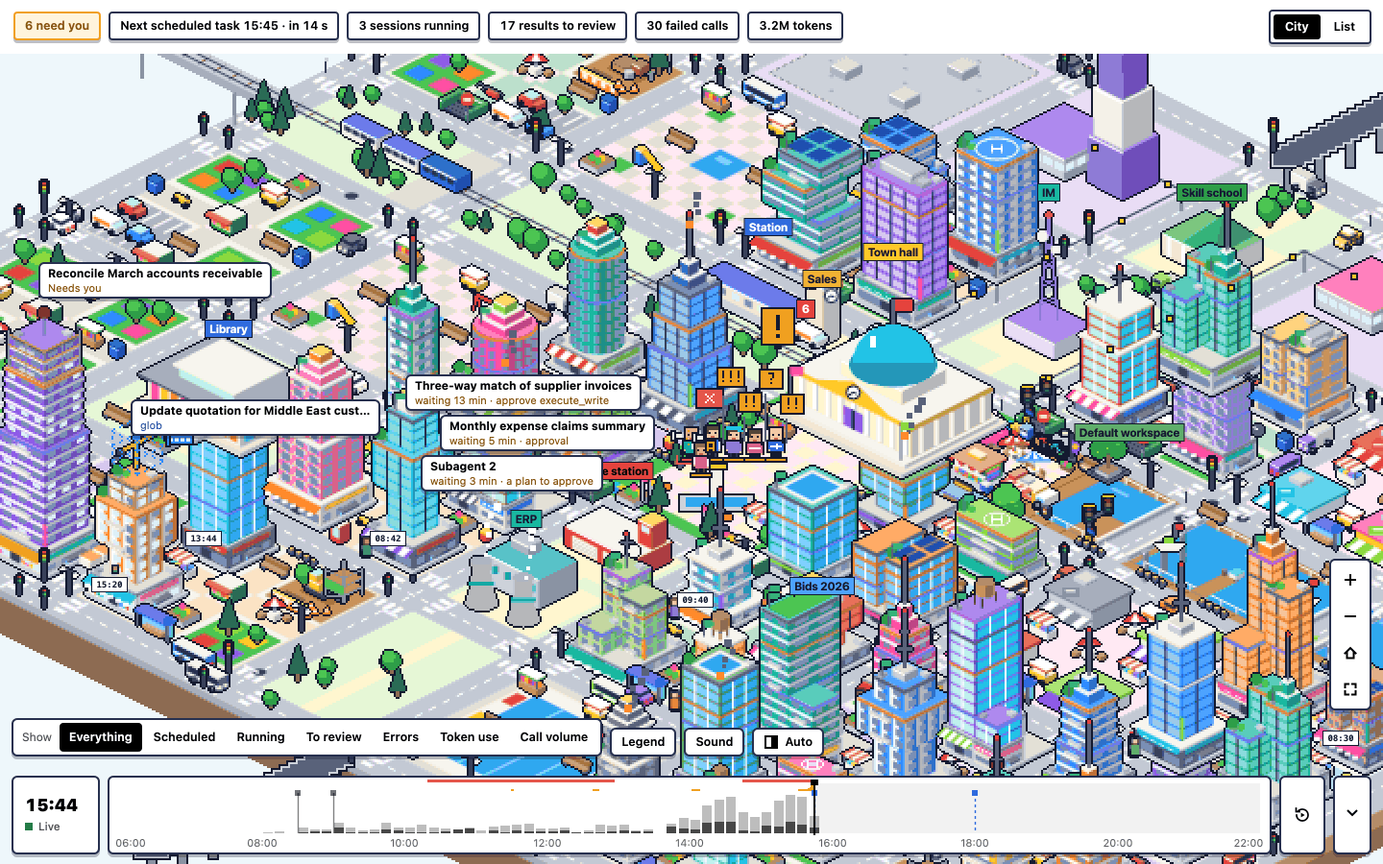
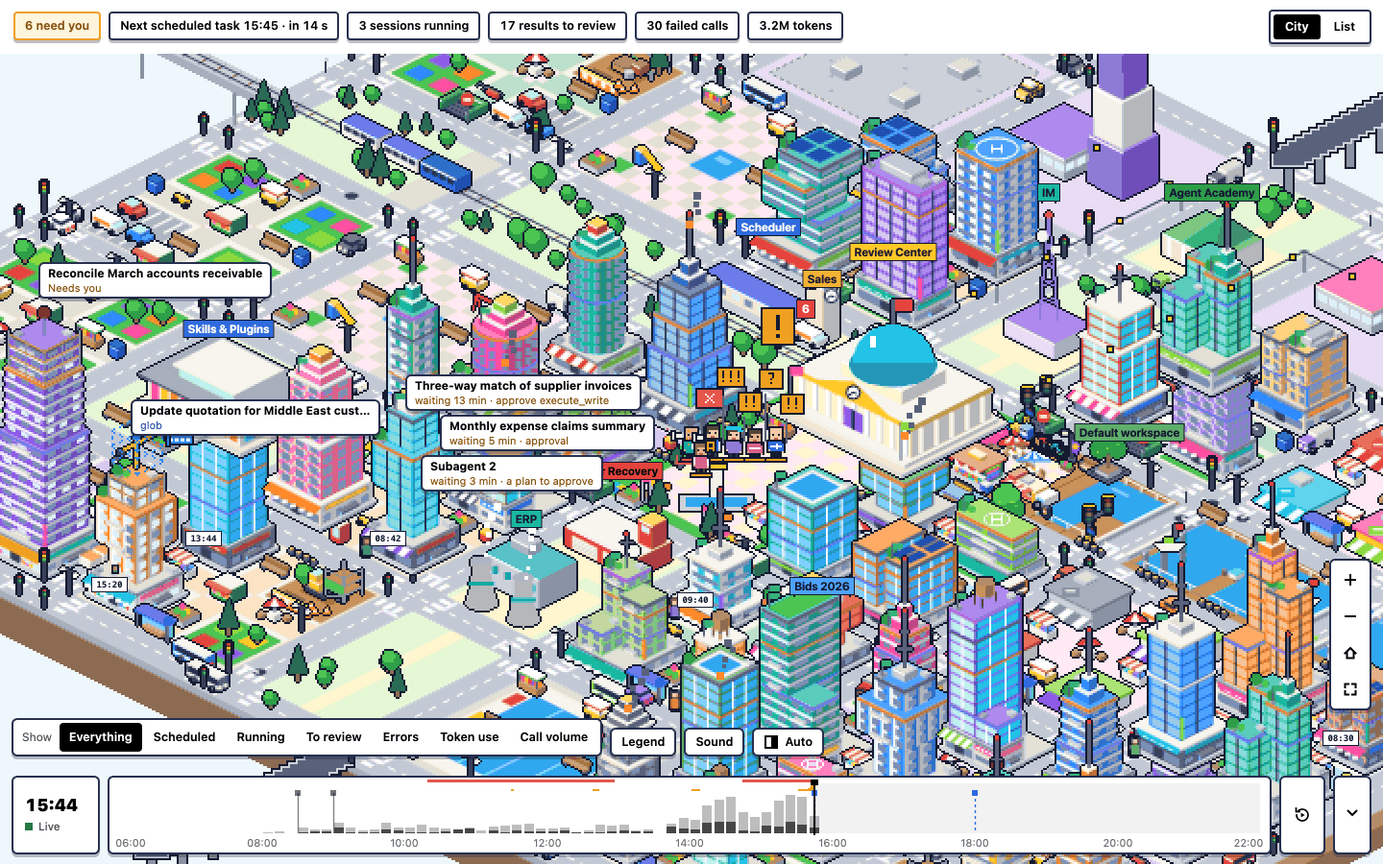
Rename the civic places to AI names
The places members see now carry AI names in both languages; internal ids
(town, station, fire, school, library, model:, conn:) are unchanged.

- Town hall / square -> Review Center / Review Square (审核中心 / 审核广场)
- Station -> Scheduler (定时任务站)
- Fire station -> Error Recovery (故障修复站)
- Power plant -> Model Hub (模型站)
- Library -> Skills & Plugins (技能与插件库)
- Skill school -> Agent Academy (智能体学院)
- Connector -> MCP Gateway (MCP 网关)
- Plugin street -> Plugin Row (插件街)
- Public buildings -> AI facilities (AI 设施); City gate floor -> Web access (联网出口)

Signs, cards, list headings, legend, tour, overlays, screen-reader text,
READMEs and the user guide follow. City goldens and the README
screenshots are regenerated (English, scripts/readme-shots.mjs).

Claude-Session: https://claude.ai/code/session_01DikYeVxEWu7E3JWwz3Wvbj

diff --git a/plugin/src/locales/en.ts b/plugin/src/locales/en.ts
@@ -4,14 +4,14 @@ import type { zh } from './zh.ts';
 export const en: Record<keyof typeof zh, string> = {
   title: 'DSH Universe',
   'list.label': 'List',
-  'h.rw': "{r} {r:agent is|agents are} working, {w} waiting for you in the square.",
+  'h.rw': "{r} {r:agent is|agents are} working, {w} waiting for you in Review Square.",
   'h.r': "{r} {r:agent is|agents are} working, none waiting for you.",
-  'h.w': "{w} {w:agent is|agents are} waiting for you in the square, the rest are stopped.",
+  'h.w': "{w} {w:agent is|agents are} waiting for you in Review Square, the rest are stopped.",
   'h.none': 'No agent is working right now.',
   'h.loading': 'Reading sessions…',
   'h.empty': 'Nothing has been built in town yet today.',
   'h.error': 'The session list cannot be read.',
-  'e.empty': 'Start a session and the first building breaks ground. The town hall, power plant, skill school, fire station, library and station are already here.',
+  'e.empty': 'Start a session and the first building breaks ground. The Review Center, Model Hub, Agent Academy, Error Recovery, Skills & Plugins and Scheduler are already here.',
   'e.error': "DSH did not answer. This shows what was last read; numbers are hidden for now.",
   'e.retry': 'Read again',
   'e.partial': 'Earlier records of today could not all be read; counting starts when the plugin started.',
@@ -25,15 +25,15 @@ export const en: Record<keyof typeof zh, string> = {
   'td.err': "{n} failed {n:call|calls}",
   'td.tok': '{n} tokens',
   'a.in': 'in {d}',
-  'li.need': 'Waiting for you in the square',
+  'li.need': 'Waiting for you in Review Square',
   'li.review': 'Finished and not seen yet, or with an unsent draft',
   'li.running': "Running",
   'li.auto': 'Scheduled tasks',
   'li.failed': "Stopped on an error",
   'li.idle': "Idle",
   'li.done': 'Finished today',
-  'li.places': 'Public buildings',
-  'li.plugins': "Plugin street",
+  'li.places': 'AI facilities',
+  'li.plugins': "Plugin Row",
   'li.days': 'Earlier days (last 14)',
   'li.dayUnknown': 'No record (the plugin was not running that day)',
   'li.dayRow': "{n} {n:session|sessions}, {f} failed",
@@ -73,7 +73,7 @@ export const en: Record<keyof typeof zh, string> = {
   'fl.done': 'Finished',
   'fl.failed': 'Error',
   'fl.platform': 'Platform',
-  'fl.gate': 'City gate',
+  'fl.gate': 'Web access',
   'fl.approval': 'Approvals desk',
   'fl.question': 'Enquiries',
   'fl.plan': 'Plan to approve',
@@ -85,13 +85,13 @@ export const en: Record<keyof typeof zh, string> = {
   'fl.control': 'Control room',
   'fl.bay': 'Engine bay',
   'fl.retry': 'Repair log',
-  'pl.town': 'Town hall',
-  'pl.station': 'Station',
-  'pl.school': 'Skill school',
-  'pl.library': 'Library',
-  'pl.fire': 'Fire station',
-  'pl.power': 'Power plant {n}',
-  'pl.conn': 'Connector {n}',
+  'pl.town': 'Review Center',
+  'pl.station': 'Scheduler',
+  'pl.school': 'Agent Academy',
+  'pl.library': 'Skills & Plugins',
+  'pl.fire': 'Error Recovery',
+  'pl.power': 'Model Hub {n}',
+  'pl.conn': 'MCP Gateway {n}',
   'pl.home': 'Own building',
   'pl.in': '{n} inside',
   'na': 'Not provided',
@@ -105,7 +105,7 @@ export const en: Record<keyof typeof zh, string> = {
   'view.label': "View",
   'view.city': "City",
   'view.list': "List",
-  'city.aria': "City view: a building is a session, a person is an agent. The list view has the same content. Arrow keys pan, + and − zoom, 0 goes back to the square, Enter opens the place in the middle, Esc goes back.",
+  'city.aria': "City view: a building is a session, a person is an agent. The list view has the same content. Arrow keys pan, + and − zoom, 0 goes back to Review Square, Enter opens the place in the middle, Esc goes back.",
   'ly.label': "Show",
   'ly.all': "Everything",
   'ly.scheduled': "Scheduled",
@@ -118,12 +118,12 @@ export const en: Record<keyof typeof zh, string> = {
   'lg.1': "Building = one session, taller with more work",
   'lg.2': "Person = agent; the colour under the feet is the state",
   'lg.3': "A section of a building = one kind of call, with a band in its colour on top",
-  'lg.4': "Holding up a sign in the square = waiting for you",
+  'lg.4': "Holding up a sign in Review Square = waiting for you",
   'lg.5': "Cars = calls in the last 5 minutes (1 car ≈ {n} calls)",
   'lg.6': "At night only places that are working or waiting are lit",
   'zm.in': "Zoom in",
   'zm.out': "Zoom out",
-  'zm.home': "Back to the square",
+  'zm.home': "Back to Review Square",
   'zm.whole': "Whole city",
   'tl.peek': "{n} {n:call|calls} · {f} failed",
   'lg.tl': "Timeline",
@@ -141,11 +141,11 @@ export const en: Record<keyof typeof zh, string> = {
   'nav.next': "Next one waiting for you (n)",
   'card.close': "Close",
   'act.enter': "Go inside",
-  'ov.scheduled': "Sessions that scheduled tasks started today, and the next scheduled task. The station and those buildings stay in colour, roofs edged in blue. The clock over the station points at the next scheduled task; the clock on a building is when it started. The tag is the start time: ✓ done, × failed, … still running.",
+  'ov.scheduled': "Sessions that scheduled tasks started today, and the next scheduled task. The Scheduler and those buildings stay in colour, roofs edged in blue. The clock over the Scheduler points at the next scheduled task; the clock on a building is when it started. The tag is the start time: ✓ done, × failed, … still running.",
   'ov.running': "Sessions working right now. Their buildings stay in colour, roofs edged in blue, with a dotted blue line to their agents that are out. The tag is the current tool and how long this turn has run.",
   'ov.review': "Sessions that finished and you have not looked at, and sessions with an unsent draft. Their buildings stay in colour with an edged roof. On the roof, a parcel means files were delivered, an envelope a draft, a green check finished and not seen. Opening the session or choosing Mark as seen clears it.",
-  'ov.errors': "Where calls failed today. A fire on the roof, bigger for more failures (1–2, 3–5, 6 or more); failures in the last 30 minutes burn, older ones only smoulder. Fire engines drive from the fire station along the roads and spray water. The fire station shows how many model requests were retried today.",
-  'ov.tokens': "How many tokens each building used. A wire runs from the power plant of the model it used most: solid orange means in use in the last 5 minutes, with more and faster lights for more; a building not using any is off the grid. The meter beside a building is today's use, and the top three have a bolt overhead. The bar over a plant is its load; it turns red past 80% of today's peak.",
+  'ov.errors': "Where calls failed today. A fire on the roof, bigger for more failures (1–2, 3–5, 6 or more); failures in the last 30 minutes burn, older ones only smoulder. Fire engines drive from Error Recovery along the roads and spray water. Error Recovery shows how many model requests were retried today.",
+  'ov.tokens': "How many tokens each building used. A wire runs from the Model Hub of the model it used most: solid orange means in use in the last 5 minutes, with more and faster lights for more; a building not using any is off the grid. The meter beside a building is today's use, and the top three have a bolt overhead. The bar over a Model Hub is its load; it turns red past 80% of today's peak.",
   'ov.calls': "How many calls each place had in the last 5 minutes. Roads turn yellow, orange and red (1 or more, 12 or more, 40 or more), one level less every 3 tiles outwards. Cars = calls in the last 5 minutes, 1 car ≈ {n} calls.",
   'ov.retries': "{n} {n:retry|retries} today",
   'ov.calls5': "{n} in 5 min",
@@ -157,7 +157,7 @@ export const en: Record<keyof typeof zh, string> = {
   'tl.replaying': "Replay",
   'tl.back': "Looking back",
   'snd.label': "Sound",
-  'snd.hint': "While someone waits in the square: two low notes every 2.4 seconds, higher the more are waiting. Off by default; silent with reduced motion.",
+  'snd.hint': "While someone waits in Review Square: two low notes every 2.4 seconds, higher the more are waiting. Off by default; silent with reduced motion.",
   'dn.auto': "Auto",
   'dn.day': "Day",
   'dn.night': "Night",
@@ -291,7 +291,7 @@ export const en: Record<keyof typeof zh, string> = {
   'td.schedNa': "Scheduled tasks: not provided",
   'e.backfill': "Reading today's earlier sessions; the city fills in as they arrive.",
   'e.memory': "The plugin's storage isn't available: today's city is kept only until you close it, and buildings are placed again when you reopen it.",
-  'e.noSched': "This host doesn't provide scheduled tasks, so no trains come to the station.",
+  'e.noSched': "This host doesn't provide scheduled tasks, so no trains come to the Scheduler.",
   'e.dismiss': "Got it",
   'e.notes': "Notes",
   'zm.label': "Zoom",
@@ -318,8 +318,8 @@ export const en: Record<keyof typeof zh, string> = {
   'tour.today.x': "These buttons are ordered by urgency: waiting for you, scheduled, running, to review, errors, tokens. A press switches to that layer and goes to the next item.",
   'tour.layers.t': "Show one kind",
   'tour.layers.x': "Pick a layer and the city turns grey, with only that kind in colour. Open the Legend to see how each layer reads.",
-  'tour.square.t': "The square",
-  'tour.square.x': "Agents that need you walk to the square in front of the town hall and hold up a sign, more visible the longer they wait. Click one to follow it, then confirm in the session.",
+  'tour.square.t': "Review Square",
+  'tour.square.x': "Agents that need you walk to Review Square in front of the Review Center and hold up a sign, more visible the longer they wait. Click one to follow it, then confirm in the session.",
   'tour.building.t': "A building is a session",
   'tour.building.x': "Point at a building to see its card; \"Open session\" on the card takes you to the session. Click the building to go inside and see what each floor is doing.",
 };

diff --git a/plugin/src/locales/zh.ts b/plugin/src/locales/zh.ts
@@ -2,14 +2,14 @@
 export const zh = {
   title: 'DSH Universe',
   'list.label': '清单',
-  'h.rw': '现在 {r} 个代理在干活，{w} 个在广场上等你。',
+  'h.rw': '现在 {r} 个代理在干活，{w} 个在审核广场上等你。',
   'h.r': '现在 {r} 个代理在干活，没有等你的。',
-  'h.w': '{w} 个代理在广场上等你，其余都停着。',
+  'h.w': '{w} 个代理在审核广场上等你，其余都停着。',
   'h.none': '此刻没有代理在干活。',
   'h.loading': '正在读取会话…',
   'h.empty': '今天城里还没有动工。',
   'h.error': '读不到会话列表。',
-  'e.empty': '发起一个会话，第一栋楼就会开工。市政厅、电站、技能学校、消防站、图书馆和车站已经在了。',
+  'e.empty': '发起一个会话，第一栋楼就会开工。审核中心、模型站、智能体学院、故障修复站、技能与插件库和定时任务站已经在了。',
   'e.error': "没有收到 DSH 的回应。这里显示的是上一次读到的内容，数字先不显示。",
   'e.retry': '再读一次',
   'e.partial': '今天早些时候的记录没有读全，只从插件开始运行时算起。',
@@ -23,14 +23,14 @@ export const zh = {
   'td.err': '{n} 次出错',
   'td.tok': '{n} token',
   'a.in': '{d}后',
-  'li.need': '在广场上等你',
+  'li.need': '在审核广场上等你',
   'li.review': '做完了还没看过，或有没发出的草稿',
   'li.running': "运行中",
   'li.auto': '定时任务',
   'li.failed': "出错停下",
   'li.idle': "空闲",
   'li.done': "今天完成",
-  'li.places': '公共设施',
+  'li.places': 'AI 设施',
   'li.plugins': '插件街',
   'li.days': '往日（近 14 天）',
   'li.dayUnknown': '没有记录（插件那天没有运行）',
@@ -71,7 +71,7 @@ export const zh = {
   'fl.done': '已完工',
   'fl.failed': '出错',
   'fl.platform': '站台',
-  'fl.gate': '出城口',
+  'fl.gate': '联网出口',
   'fl.approval': '审批窗口',
   'fl.question': '问询处',
   'fl.plan': '待批准的计划',
@@ -83,13 +83,13 @@ export const zh = {
   'fl.control': '控制室',
   'fl.bay': '车库',
   'fl.retry': '抢修记录',
-  'pl.town': '市政厅',
-  'pl.station': '车站',
-  'pl.school': '技能学校',
-  'pl.library': '图书馆',
-  'pl.fire': '消防站',
-  'pl.power': '电站 {n}',
-  'pl.conn': '连接器 {n}',
+  'pl.town': '审核中心',
+  'pl.station': '定时任务站',
+  'pl.school': '智能体学院',
+  'pl.library': '技能与插件库',
+  'pl.fire': '故障修复站',
+  'pl.power': '模型站 {n}',
+  'pl.conn': 'MCP 网关 {n}',
   'pl.home': '自己的楼',
   'pl.in': '{n} 人在内',
   'na': '未提供',
@@ -103,7 +103,7 @@ export const zh = {
   'view.label': "视图",
   'view.city': "城市",
   'view.list': "清单",
-  'city.aria': "城市视图：一栋楼是一个会话，人是代理。清单视图里有同样的内容。方向键平移，加号减号缩放，0 回到广场，回车打开画面中间的地点，Esc 返回。",
+  'city.aria': "城市视图：一栋楼是一个会话，人是代理。清单视图里有同样的内容。方向键平移，加号减号缩放，0 回到审核广场，回车打开画面中间的地点，Esc 返回。",
   'ly.label': "只看",
   'ly.all': "全部",
   'ly.scheduled': "定时任务",
@@ -116,12 +116,12 @@ export const zh = {
   'lg.1': "一栋楼 = 一个会话，越干越高",
   'lg.2': "小人 = 代理，脚下的颜色是状态",
   'lg.3': "楼的一段 = 一类调用，段顶有一条这一类颜色的色带",
-  'lg.4': "广场上举牌的 = 在等你",
+  'lg.4': "审核广场上举牌的 = 在等你",
   'lg.5': "车 = 最近 5 分钟的调用量（1 辆约等于 {n} 次）",
   'lg.6': "夜里只有在干活或等你的地方亮灯",
   'zm.in': "放大",
   'zm.out': "缩小",
-  'zm.home': "回到广场",
+  'zm.home': "回到审核广场",
   'zm.whole': "看全城",
   'tl.peek': "{n} 次调用 · {f} 次失败",
   'lg.tl': "时间轴",
@@ -139,11 +139,11 @@ export const zh = {
   'nav.next': "下一个等你的（n）",
   'card.close': "关闭",
   'act.enter': "进楼看看",
-  'ov.scheduled': "今天由定时任务启动的会话，和下一个定时任务。车站和这些楼保持彩色，屋顶描蓝边；车站上的钟指向下一个定时任务，楼上的钟是它启动的时间；标签写启动时间：✓ 完成、× 出错、… 还在运行。",
+  'ov.scheduled': "今天由定时任务启动的会话，和下一个定时任务。定时任务站和这些楼保持彩色，屋顶描蓝边；定时任务站上的钟指向下一个定时任务，楼上的钟是它启动的时间；标签写启动时间：✓ 完成、× 出错、… 还在运行。",
   'ov.running': "此刻在干活的会话。这些楼保持彩色，屋顶描蓝边；蓝色虚线连到它出门在外的代理；标签是当前工具和这一轮已用的时间。",
   'ov.review': "做完了而你还没看过的会话，和输入框里有没发出草稿的会话。这些楼保持彩色，屋顶描边；楼顶的箱子 = 交付了文件，信封 = 有草稿，绿色的勾 = 做完还没看。打开会话或点「标为已看」后就不再算。",
-  'ov.errors': "今天哪里有调用出错。楼顶着火，出错越多火越大（1–2、3–5、6 次以上）；30 分钟内出过错的还在烧，更早的只冒烟；消防车从消防站沿路开过去灭火。消防站上写着今天模型请求重试了几次。",
-  'ov.tokens': "每栋楼用了多少 token。电线从它用得最多的模型的电站拉过来：橙色实线表示最近 5 分钟在用，用得越多，光点越多越快；没在用的楼不通电。楼边的电表是今天的用量，前三名头上有闪电；电站上方的条是负荷，超过今天高峰的八成变红。",
+  'ov.errors': "今天哪里有调用出错。楼顶着火，出错越多火越大（1–2、3–5、6 次以上）；30 分钟内出过错的还在烧，更早的只冒烟；消防车从故障修复站沿路开过去灭火。故障修复站上写着今天模型请求重试了几次。",
+  'ov.tokens': "每栋楼用了多少 token。电线从它用得最多的模型对应的模型站拉过来：橙色实线表示最近 5 分钟在用，用得越多，光点越多越快；没在用的楼不通电。楼边的电表是今天的用量，前三名头上有闪电；模型站上方的条是负荷，超过今天高峰的八成变红。",
   'ov.calls': "最近 5 分钟每个地点有多少次调用。路面黄、橙、红三档（1 次以上、12 次以上、40 次以上），往外每 3 格降一档。车 = 最近 5 分钟的调用量，1 辆约等于 {n} 次。",
   'ov.retries': "今天重试 {n} 次",
   'ov.calls5': "5 分钟 {n} 次",
@@ -155,7 +155,7 @@ export const zh = {
   'tl.replaying': "回放中",
   'tl.back': "回看",
   'snd.label': "环境音",
-  'snd.hint': "有人在广场上等你时，每 2.4 秒响两声低音，等的人越多音越高。默认关闭；系统开启「减少动态效果」时不响。",
+  'snd.hint': "有人在审核广场上等你时，每 2.4 秒响两声低音，等的人越多音越高。默认关闭；系统开启「减少动态效果」时不响。",
   'dn.auto': "自动",
   'dn.day': "白天",
   'dn.night': "夜晚",
@@ -289,7 +289,7 @@ export const zh = {
   'td.schedNa': "定时任务：未提供",
   'e.backfill': "正在补读今天早些时候的会话，城市会一栋一栋长出来。",
   'e.memory': "插件的存储暂时用不了：今天的城市只保留到这次关闭，重新打开后楼的位置会重新安排。",
-  'e.noSched': "这个宿主没有提供定时任务，车站里不会有列车。",
+  'e.noSched': "这个宿主没有提供定时任务，定时任务站里不会有列车。",
   'e.dismiss': "知道了",
   'e.notes': "提示",
   'zm.label': "缩放",
@@ -316,8 +316,8 @@ export const zh = {
   'tour.today.x': "这一排按钮按急缓排列：等你、定时任务、运行中、待查看、出错、token。点一下会切到对应的图层，并跳到下一项。",
   'tour.layers.t': "只看一类",
   'tour.layers.x': "选一个图层，城市变灰，只有这一类保持彩色。点「图例」看每个图层怎么读。",
-  'tour.square.t': "广场",
-  'tour.square.x': "需要你的代理会走到市政厅前的广场上举牌，等得越久越显眼。点一下就能跟上它，再去会话里确认。",
+  'tour.square.t': "审核广场",
+  'tour.square.x': "需要你的代理会走到审核中心前的审核广场上举牌，等得越久越显眼。点一下就能跟上它，再去会话里确认。",
   'tour.building.t': "一栋楼是一个会话",
   'tour.building.x': "指针移到楼上，会出现这栋楼的卡片，卡片上的「打开会话」直接去那个会话。点一下楼就进去，看各层在做什么。",
 };

diff --git a/plugin/tests/client.test.ts b/plugin/tests/client.test.ts
@@ -171,7 +171,7 @@ test('English counts take the singular at 1 (`{n:one|other}`); Chinese never nee
   const { en, zh } = await import('../src/locales/index.ts');
   assert.equal(fill(en['td.err'], { n: 1 }), '1 failed call');
   assert.equal(fill(en['td.err'], { n: 30 }), '30 failed calls');
-  assert.equal(fill(en['h.rw'], { r: 1, w: 2 }), '1 agent is working, 2 waiting for you in the square.');
+  assert.equal(fill(en['h.rw'], { r: 1, w: 2 }), '1 agent is working, 2 waiting for you in Review Square.');
   for (const v of Object.values(zh)) assert.ok(!/\{\w+:/.test(v), v);
 });
 

diff --git a/docs/USER-GUIDE.en.md b/docs/USER-GUIDE.en.md
@@ -11,22 +11,23 @@ person, and every tool call shows up as traffic, light and work. Open it from **
 | --- | --- |
 | A building | One session. It grows a section for each kind of work it does (reading, editing, running commands, connectors…), with a band in that kind's colour on top. |
 | A person | An agent. The colour under their feet is the state: Running, Needs you, Idle, Done or Failed. Subagents work inside their parent's building. |
-| A sign held up in the square | That agent is waiting for you (an approval, a question, or a plan to read). |
+| A sign held up in Review Square | That agent is waiting for you (an approval, a question, or a plan to read). |
 | Cars on the avenues | Calls made in the last five minutes. |
 | Lit windows at night | Only places that are working or waiting stay lit. An idle city stands still. |
 
-The civic buildings stand round the square: the **town hall** (approvals and plans), the **station** (scheduled
-tasks), the **fire station** (errors), the **skill school** (skills), the **library** (the plugins you installed) and
-one **power plant** per model. Each connector (MCP server) has its own building, and installed plugins line the plugin street. Workspaces are
+The AI facilities stand round Review Square: the **Review Center** (approvals, questions and plans), the **Scheduler**
+(scheduled tasks), **Error Recovery** (errors and retries), the **Agent Academy** (skill loads and experts), **Skills &
+Plugins** (what you installed) and one **Model Hub** per model. Each MCP server has its own **MCP Gateway**, and
+installed plugins line **Plugin Row**. Workspaces are
 districts, each with a sign showing the workspace's name.
 
 Point at a building to see its card: what the session is doing, its calls, token use and time. **Open session**
 on the card takes you to the session in DSH; clicking the building takes you inside. Open **Legend** for a one-page key. The first time you open
 DSH Universe a four-step tour points these out; **Show the tour again** in the legend repeats it.
 
-## The square and the data views
+## Review Square and the data views
 
-The square in front of the town hall is where agents wait for you. The first button of the Today row along the top shows how many
+Review Square in front of the Review Center is where agents wait for you. The first button of the Today row along the top shows how many
 things need you, and the `n` key jumps to the next one. The row is ordered by urgency: waiting for you, scheduled,
 running, to review, errors, tokens; a press switches to that layer and goes to the next item.
 
@@ -63,8 +64,8 @@ city** or `Esc` to leave.
 
 ![Inside a building](img/guide-inside.png)
 
-The civic buildings can be entered too: the library shows your plugins, the skill school your skills, the station
-the day's scheduled tasks.
+The AI facilities can be entered too: Skills & Plugins shows what you installed, the Agent Academy your skills and
+experts, the Scheduler the day's scheduled tasks.
 
 ## What it reads, and what it never reads
 
@@ -88,5 +89,5 @@ each have their own city, and the same session may stand on a different plot in 
 ## Accessibility
 
 Everything in the city is also in the list view. In the city, the arrow keys pan, `+` and `−` zoom, `0` returns to
-the square, `Enter` opens the place in the middle and `Esc` goes back. With reduced motion turned on in your system,
+Review Square, `Enter` opens the place in the middle and `Esc` goes back. With reduced motion turned on in your system,
 the city updates at most twice a second and nothing flashes.

diff --git a/README.md b/README.md
@@ -21,25 +21,25 @@ All screenshots use a made-up sample day (`fixtures/dsh-sample.ts`). No real ses
 - A **list view** with the same content as text.
 
 **Needs you**
-- Agents waiting for an approval, an answer or a plan to read gather in the town square holding a sign.
+- Agents waiting for an approval, an answer or a plan to read gather in Review Square holding a sign.
 - They stand out more the longer they wait.
 - One click follows the agent; **Open session** takes you to it in DSH.
 
 **Errors**
 - Fire layer: a fire on each building with failed calls, bigger for more failures; recent ones burn, older ones
   smoulder, and fire engines drive out to them.
-- The fire station counts today's retried model requests and keeps a repair log.
+- Error Recovery counts today's retried model requests and keeps a repair log.
 
 **Token and model use**
-- Power-grid layer: one power plant per model with its load, and a wire to each building from the model it used most.
+- Power-grid layer: one Model Hub per model with its load, and a wire to each building from the model it used most.
 - A meter beside each building shows its token use today; the top three get a bolt overhead.
 
 **Call volume**
 - Traffic layer: roads turn yellow, orange and red with the calls of the last 5 minutes, and cars stand for calls.
 
 **Schedules**
-- Scheduled runs arrive as trains at the station.
-- A clock over the station points at the next scheduled task; each building's clock shows when it started.
+- Scheduled runs arrive as trains at the Scheduler.
+- A clock over the Scheduler points at the next scheduled task; each building's clock shows when it started.
 
 **To review**
 - Sessions that finished and you have not looked at, sessions with an unsent draft, and delivered files are marked on
@@ -79,8 +79,8 @@ All screenshots use a made-up sample day (`fixtures/dsh-sample.ts`). No real ses
 | --- | --- |
 | ![The city at night: only places with work in progress are lit](docs/screenshots/city-night.png) | ![The Errors view: failed calls in colour, everything else greyed out](docs/screenshots/layer-errors.png) |
 | **Night.** Only the places with a session in progress are lit. | **Errors.** One kind of data at a time; the rest of the city is greyed out. Token use and call volume work the same way. |
-| ![Agents waiting for you in the square](docs/screenshots/square.png) | ![The timeline replaying the day](docs/screenshots/replay.png) |
-| **The square.** Agents that need you (an approval, a question, a plan to read) wait in the city square with a sign. | **Timeline.** Drag back to any moment of the day, or replay it. |
+| ![Agents waiting for you in Review Square](docs/screenshots/square.png) | ![The timeline replaying the day](docs/screenshots/replay.png) |
+| **Review Square.** Agents that need you (an approval, a question, a plan to read) wait in Review Square with a sign. | **Timeline.** Drag back to any moment of the day, or replay it. |
 | ![Inside a building: the market desk floor](docs/screenshots/room-market.png) | ![Inside a building: the help desk floor](docs/screenshots/room-helpdesk.png) |
 | **Inside a building.** One floor for each kind of work, with the agents standing where they work. | Each kind of floor has its own room, and rooms are laid out like the real thing. |
 | ![The list view](docs/screenshots/list.png) | |

diff --git a/release/npm/README.md b/release/npm/README.md
@@ -11,13 +11,13 @@ is scheduled next. Metadata only, read on your own device.
 
 - **Real-time overview.** Every session and agent across all workspaces, live. The Today bar counts what needs you,
   the next scheduled task, what is running, results to review, failed calls and token use; press one to jump to it.
-- **Needs you.** Agents waiting for an approval, an answer or a plan to read gather in the town square, standing out
+- **Needs you.** Agents waiting for an approval, an answer or a plan to read gather in Review Square, standing out
   more the longer they wait. One click opens the session in DSH.
-- **Errors.** Fires on buildings with failed calls, fire engines on the way, and a fire station that counts retries
+- **Errors.** Fires on buildings with failed calls, fire engines on the way, and Error Recovery, which counts retries
   and keeps a repair log.
-- **Token and model use.** A power grid: one plant per model with its load, and each building's token use today.
+- **Token and model use.** A power grid: one Model Hub per model with its load, and each building's token use today.
 - **Call volume.** Roads and cars show the calls of the last 5 minutes.
-- **Schedules.** Scheduled runs arrive as trains at the station; a clock points at the next one.
+- **Schedules.** Scheduled runs arrive as trains at the Scheduler; a clock points at the next one.
 - **To review.** Finished sessions you have not seen, unsent drafts and delivered files are marked until you open them.
 - **Inside each session.** Each building grows with its work. Go inside to rooms themed by the session title, with
   agents and subagents at their desks posed by the tool they use, and clickable data props: call tape, call log
